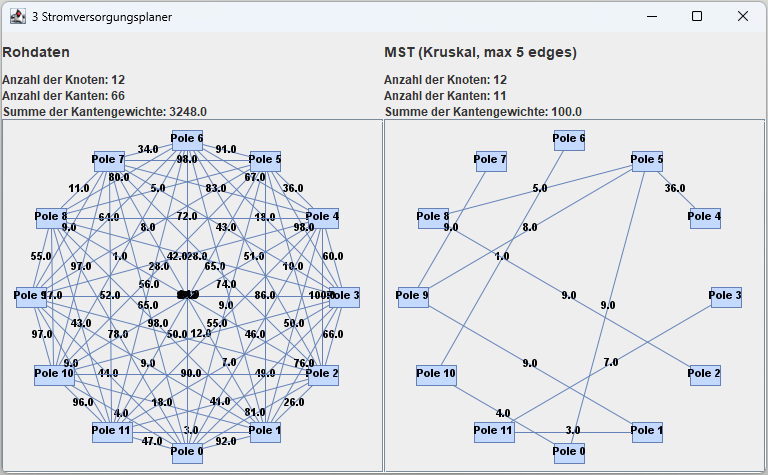
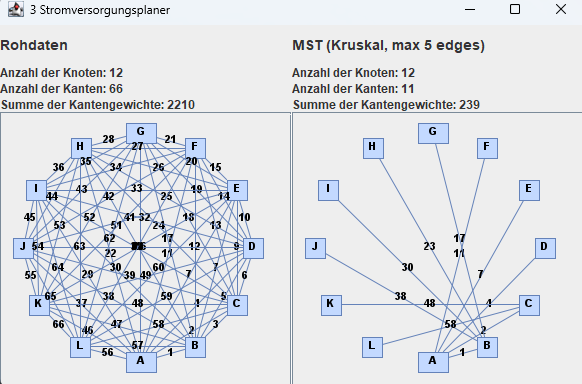
Updated Problem 3

diff --git a/code/Problem3.java b/code/Problem3.java
@@ -1,0 +1,163 @@
+package code;
+
+import java.awt.Dimension;
+import java.awt.GridLayout;
+import java.io.FileNotFoundException;
+import java.io.IOException;
+import java.util.ArrayList;
+import java.util.Comparator;
+
+import code.utils.AdjazenzMatrix;
+import code.utils.BasicWindow;
+import code.utils.Edge;
+import code.utils.FileHandler;
+import code.utils.JGraphPanel;
+import code.utils.Vertex;
+
+public class Problem3 extends BasicWindow {
+
+  public Problem3(String title) throws FileNotFoundException, IOException {
+    super(title);
+
+    setSize(new Dimension(600, 400));
+    setLayout(new GridLayout(1, 2));
+    setLocationRelativeTo(null);
+
+    // Initializiere FileHandler und lese die Daten aus der Datei
+    FileHandler fh = new FileHandler("problem3.txt");
+
+    // Erstelle die Adjazenzmatrix und gebe sie in der Konsole aus
+    AdjazenzMatrix am_input = new AdjazenzMatrix("Input", fh.getMatrix(), fh.getVertexLetters(), false);
+    am_input.printMatrix();
+
+    int max_edges = 5;
+    int[][] matrix_output = kruskal(am_input, max_edges);
+
+    // Erstelle die Ausgabe-Adjazenzmatrix, gebe sie in der Konsole aus und schreibe
+    // sie in eine Datei
+    AdjazenzMatrix am_output = new AdjazenzMatrix("Output", matrix_output,
+        fh.getVertexLetters(), false);
+    am_output.printAndWriteMatrix(title);
+
+    // Erstelle die Graphen und füge sie dem Fenster hinzu
+    JGraphPanel p1 = new JGraphPanel("Rohdaten", am_input, "circle");
+    JGraphPanel p2 = new JGraphPanel("MST (Kruskal, max " + max_edges + " edges)", am_output,
+        "circle");
+
+    add(p1);
+    add(p2);
+  }
+
+  private int[][] kruskal(AdjazenzMatrix input, int max_edges) {
+
+    int[][] matrix = input.getMatrixCopy();
+    char[] vertexLetters = input.getVertexLetters();
+
+    ArrayList<Vertex> vertices = new ArrayList<>();
+
+    // Generiere eine Liste aller Knoten
+    for (int i = 0; i < matrix.length; i++)
+      vertices.add(new Vertex(vertexLetters[i], 0));
+
+    ArrayList<Edge> edges = getEdges(matrix, vertexLetters);
+
+    // Sortiere die Kanten nach Gewicht
+    edges.sort(Comparator.comparingDouble(Edge::getWeight));
+
+    // erstelle einen wald 'forest' (eine menge von bäumen), wo jeder knoten ein
+    // eigener baum ist
+    ArrayList<ArrayList<Vertex>> forest = new ArrayList<ArrayList<Vertex>>();
+    for (Vertex v : vertices) {
+      ArrayList<Vertex> tree = new ArrayList<Vertex>();
+      tree.add(v);
+      forest.add(tree);
+    }
+
+    // erstelle eine liste mit den kanten des minimum spanning trees
+    ArrayList<Edge> forest_edges = new ArrayList<Edge>(edges);
+
+    // erstelle eine liste für die Ausgabe
+    ArrayList<Edge> output_edges = new ArrayList<Edge>();
+
+    // solange der wald nicht leer ist und der baum noch nicht alle knoten enthält
+    while (forest_edges.size() > 0) {
+      // entferne eine kante (u, v) aus forest
+      Edge e = forest_edges.remove(0);
+
+      // finde die bäume, die mit der Kante e verbunden sind
+      ArrayList<Vertex> tree_u = null;
+      ArrayList<Vertex> tree_v = null;
+      for (ArrayList<Vertex> t : forest) {
+        if (t.contains(getSourceVertexFromEdge(e, vertices)))
+          tree_u = t;
+        if (t.contains(getTargetVertexFromEdge(e, vertices)))
+          tree_v = t;
+      }
+
+      // Prüfe ob die kante e von einem vertex ausgeht, der bereits mehr als 5 kanten
+      // hat
+      ArrayList<Edge> source_edges = getAdjacentEdges(e.getSource(), output_edges);
+      ArrayList<Edge> target_edges = getAdjacentEdges(e.getTarget(), output_edges);
+
+      if (source_edges.size() >= max_edges || target_edges.size() >= max_edges)
+        continue;
+
+      // wenn u und v in gleichen Bäumen sind -> skip
+      if (tree_u == tree_v)
+        continue;
+
+      // füge kante von u und v zur Ausgabe hinzu
+      output_edges.add(e);
+
+      // füge baum von v zu baum von u hinzu (merge)
+      for (Vertex v : tree_v)
+        tree_u.add(v);
+
+      forest.remove(tree_v);
+    }
+
+    // erstelle die Ausgabe-Adjazenzmatrix
+    int[][] output_matrix = new int[matrix.length][matrix.length];
+    for (Edge e : output_edges) {
+      int source = e.getSource() - 'A';
+      int target = e.getTarget() - 'A';
+      output_matrix[source][target] = matrix[source][target];
+      output_matrix[target][source] = matrix[target][source];
+    }
+    return output_matrix;
+  }
+
+  private ArrayList<Edge> getAdjacentEdges(char vertex, ArrayList<Edge> edges) {
+    ArrayList<Edge> adjacent_edges = new ArrayList<Edge>();
+    for (Edge e : edges)
+      if (e.getSource() == vertex || e.getTarget() == vertex)
+        adjacent_edges.add(e);
+    return adjacent_edges;
+  }
+
+  private Vertex getSourceVertexFromEdge(Edge e, ArrayList<Vertex> vertices) {
+    for (Vertex v : vertices)
+      if (v.getLetter() == e.getSource())
+        return v;
+    return null;
+  }
+
+  private Vertex getTargetVertexFromEdge(Edge e, ArrayList<Vertex> vertices) {
+    for (Vertex v : vertices)
+      if (v.getLetter() == e.getTarget())
+        return v;
+    return null;
+  }
+
+  private ArrayList<Edge> getEdges(int[][] matrix, char[] vertexLetters) {
+    ArrayList<Edge> edges = new ArrayList<>();
+
+    // Iteriere über die Adjazenzmatrix und füge alle Kanten der Liste hinzu
+    for (int i = 0; i < matrix.length; i++)
+      for (int j = 0; j < matrix.length; j++)
+        if (matrix[i][j] != 0)
+          edges.add(new Edge(vertexLetters[i], vertexLetters[j], matrix[i][j]));
+
+    return edges;
+  }
+}

diff --git a/code/Main.java b/code/Main.java
@@ -69,7 +69,7 @@ public class Main extends JFrame {
           new Problem2(label);
           break;
         case 3:
-          // new Problem3(label);
+          new Problem3(label);
           break;
         case 4:
           // new Problem4(label);

diff --git a/code/utils/Vertex.java b/code/utils/Vertex.java
@@ -12,6 +12,10 @@ public class Vertex {
     this.predecessor = predecessor;
   }
 
+  public Vertex(char letter, int value) {
+    this(letter, value, null);
+  }
+
   public char getLetter() {
     return this.letter;
   }
